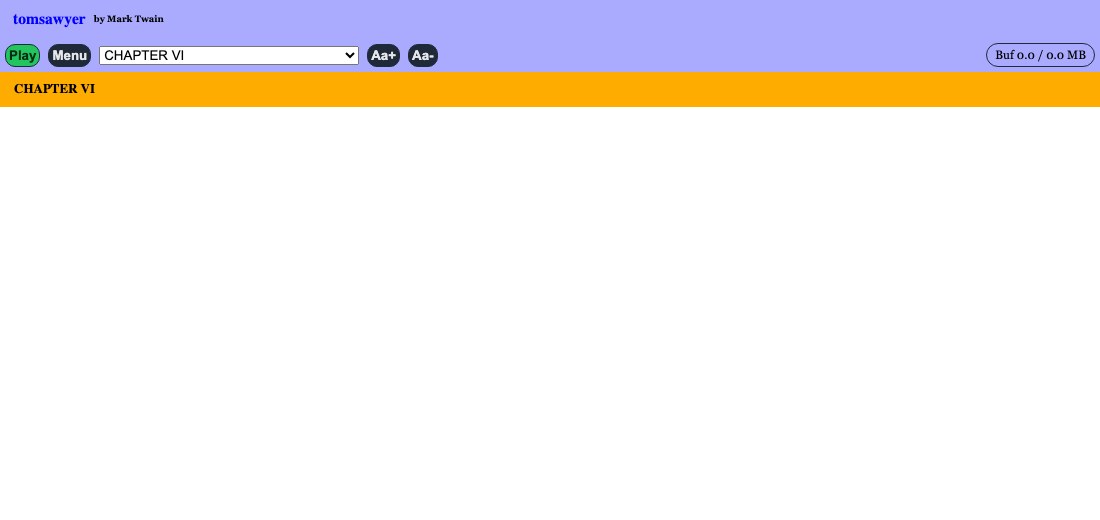
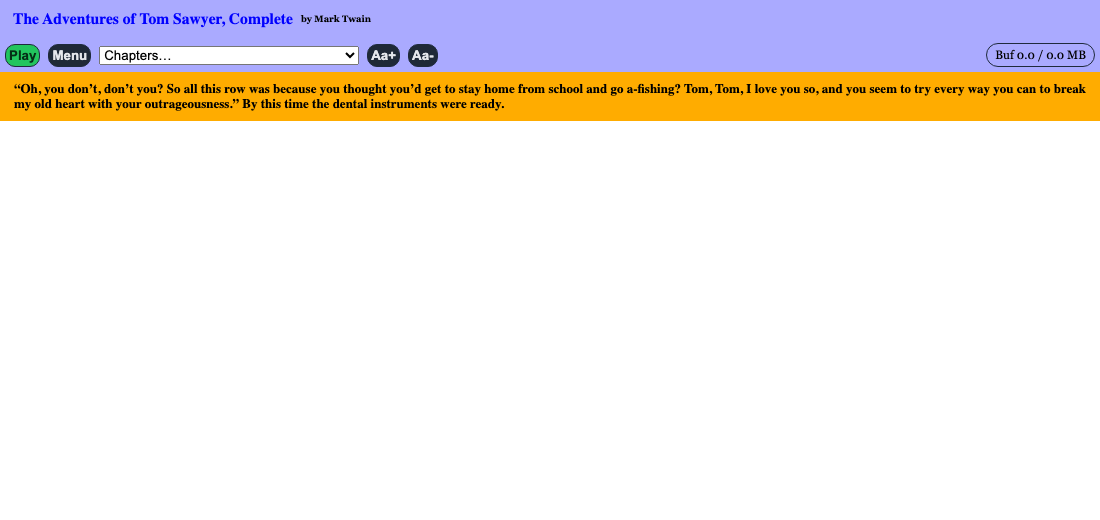
Show the ebook's real title instead of its file name
readBook took the title from the file name; use the EPUB's own title metadata
when present (falling back to the file name without its extension). The reader
header now reads 'Treasure Island' and 'The Adventures of Tom Sawyer' rather
than the bare file name. Refresh the README screenshot to match.

Changed region(s): [[0.0, 0.1538, 1.0, 0.2462], [0.0, 0.0308, 0.34, 0.0615], [0.0927, 0.0923, 0.1855, 0.1231]]

diff --git a/pages/readBook.php b/pages/readBook.php
@@ -296,6 +296,13 @@ if ($contentFolder === './')
 $spineInfo = $ebookObject->getSpine();
 $parts = explode(" - ", $filename);
 $bookTitle = trim($parts[0]);
+// Prefer the EPUB's own title metadata; fall back to the file name (without
+// its extension) when the EPUB carries no title.
+$epubTitle = trim((string) ($ebookObject->ebookData->title ?? ''));
+if ($epubTitle !== '')
+	$bookTitle = $epubTitle;
+else
+	$bookTitle = preg_replace('/\.epub$/i', '', $bookTitle);
 $speaker = "";
 $fixData = array();
 